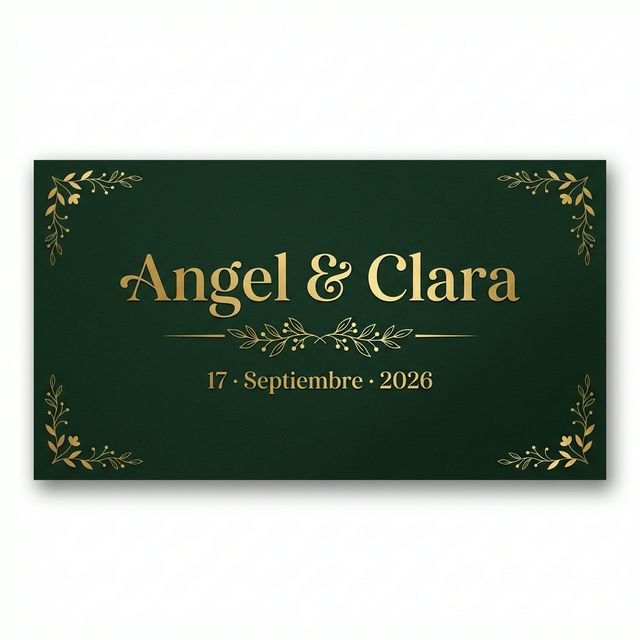
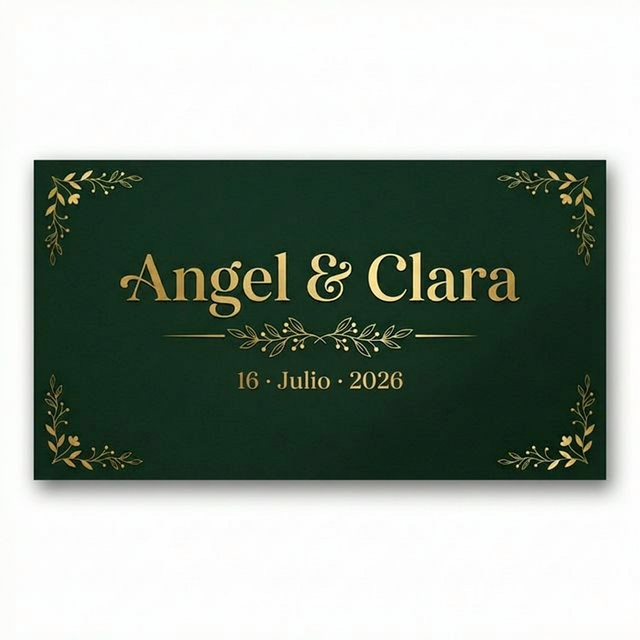
this is the last v i promise again XD

diff --git a/style.css b/style.css
@@ -14,14 +14,14 @@
   --font-serif: "Playfair Display", serif;
   --font-sans: "Lato", sans-serif;
 
-  /* Paleta de Color */
+  /* Paleta de Color Global Tintada de Oliva */
   --color-white: #ffffff;
-  --color-gold: #c5a059;
-  --color-gold-hover: #b8935a;
-  --color-dark: #333333;
-  --color-text-main: #333333;
-  --color-text-muted: #57534e;
-  --color-text-light: #78716c;
+  --color-gold: #a87f3b; /* Oro Oscurecido para mayor legibilidad sobre fondos claros */
+  --color-gold-hover: #8b682d;
+  --color-dark: #41533b; /* Deep Olive Green en lugar de Charcoal (#333) */
+  --color-text-main: #2d3a29; /* Casi negro con tinte verde oliva */
+  --color-text-muted: #535e4d; /* Gris con tinte oliva */
+  --color-text-light: #778170; /* Gris claro estilizado */
   --color-border: #e7e5e4;
   --color-bg-overlay: rgba(0, 0, 0, 0.45);
 
@@ -78,8 +78,8 @@ body {
   font-family: var(--font-sans);
   color: var(--color-text-main);
   background:
-    url("images/floral_bg.webp") repeat,
-    #faf8f2; /* Textura floral elegante y color crema combinados */
+    url("images/body_bg_olive_subtle.png") repeat,
+    #fffbfa; /* Textura botánica sutil crema/oliva/rosa */
   background-attachment: fixed;
   line-height: 1.6;
 }
@@ -115,25 +115,17 @@ body {
   box-shadow: var(--shadow-lg);
 }
 
-/* Modificador: Tarjeta destacada (Info adicional) */
-.card--highlight {
-  background: linear-gradient(135deg, #fdfcf8 0%, #faf6ec 100%);
-  border-top-color: var(--color-gold);
-  display: flex;
-  flex-direction: column;
-  gap: var(--space-md);
-}
+
 
 /* --- BOTONES (btn) --- */
 .btn {
-  display: inline-block;
   padding: 1.2em 2.5em;
   min-height: 44px;
   text-transform: uppercase;
   letter-spacing: 0.15em;
   cursor: pointer;
   transition: all var(--transition-base);
-  border-radius: 0; /* Estilo cuadrado/flat sofisticado */
+  border-radius: 1rem;
   font-family: var(--font-sans);
   font-size: 0.85rem;
   font-weight: 700;
@@ -143,53 +135,42 @@ body {
   gap: 0.5rem;
 }
 
-/* Modificador: Ghost (fondo transparente sobre imagen) */
-.btn--ghost {
-  background: transparent;
-  color: var(--color-white);
-  border: 1px solid rgba(255, 255, 255, 0.6);
-  backdrop-filter: blur(4px);
-  margin-top: var(--space-xl);
-}
 
-.btn--ghost:hover {
-  background: var(--color-white);
-  color: var(--color-gold);
-  transform: translateY(-2px);
-  box-shadow: var(--shadow-lg);
-}
 
-/* Modificador: Dark (fondo oscuro) */
+/* Modificador: Dark (fondo sólido verde oliva) */
 .btn--dark {
-  background: transparent;
-  border: 1px solid var(--color-gold);
-  color: var(--color-gold);
+  background: var(--color-dark);
+  border: 1px solid var(--color-dark);
+  color: var(--color-white);
   margin-top: var(--space-md);
+  box-shadow: 0 4px 10px rgba(65, 83, 59, 0.2);
 }
 
 .btn--dark:hover {
   background: var(--color-gold);
+  border-color: var(--color-gold);
   color: var(--color-white);
+  box-shadow: 0 6px 15px rgba(168, 127, 59, 0.3);
+  transform: translateY(-2px);
 }
 
-/* Modificador: Submit (botón de formulario) */
+/* Modificador: Submit (botón de formulario sólido oro) */
 .btn--submit {
   width: 100%;
-  background-color: var(--color-dark);
+  background-color: var(--color-gold);
   color: var(--color-white);
   border: none;
   padding: 1em;
-  border-radius: var(--radius-sm);
   font-size: 1rem;
-  font-weight: 700;
-  text-transform: uppercase;
   letter-spacing: 0.1em;
-  cursor: pointer;
-  transition: background var(--transition-base);
+  transition: all var(--transition-base);
+  box-shadow: 0 4px 10px rgba(168, 127, 59, 0.2);
 }
 
 .btn--submit:hover {
-  background-color: var(--color-gold);
+  background-color: var(--color-dark);
+  box-shadow: 0 6px 15px rgba(65, 83, 59, 0.3);
+  transform: translateY(-2px);
 }
 
 /* ==========================================================================
@@ -303,9 +284,13 @@ body {
 .navbar__link--cta {
   background-color: var(--color-gold);
   color: var(--color-white) !important;
-  border-radius: 20px;
+  border-radius: 1rem;
   padding: 0.5em 1.2em !important;
   transition: all var(--transition-base);
+  display: inline-flex;
+  align-items: center;
+  justify-content: center;
+  box-shadow: 0 4px 10px rgba(168, 127, 59, 0.2);
 }
 
 .navbar__link--cta::after {
@@ -313,9 +298,10 @@ body {
 }
 
 .navbar__link--cta:hover {
-  background-color: var(--color-gold-hover);
+  background-color: var(--color-dark);
+  color: var(--color-white) !important;
   transform: translateY(-2px);
-  box-shadow: var(--shadow-sm);
+  box-shadow: 0 6px 15px rgba(65, 83, 59, 0.3);
 }
 
 /* ==========================================================================
@@ -336,7 +322,7 @@ body {
 .hero__background {
   position: absolute;
   inset: 0;
-  background: url("images/hero_wedding.webp") center / cover;
+  background: url("images/hero_wedding_olive.png") center / cover;
   mask-image: linear-gradient(to bottom, black 70%, transparent 100%);
   -webkit-mask-image: linear-gradient(to bottom, black 85%, transparent 100%);
   filter: brightness(0.6);
@@ -388,31 +374,15 @@ body {
   margin: 0;
 }
 
-/* Elemento: Hora y lugar en la misma línea */
-.hero__sub-details {
-  display: flex;
-  align-items: center;
-  justify-content: center;
-  gap: var(--space-md);
-  font-size: 1.1rem;
+/* Elemento: Instruccion bajo la fecha */
+.hero__instruction {
+  font-size: 0.85rem;
+  color: rgba(255, 255, 255, 0.75);
+  letter-spacing: 0.12em;
   text-transform: uppercase;
-  letter-spacing: 0.15em;
-  margin-top: 0.5em;
-  font-weight: 300;
-}
-
-/* Elemento: Dirección */
-.hero__address {
-  letter-spacing: 0.1em;
-  font-size: 0.9rem;
-  color: rgba(255, 255, 255, 0.8);
   font-style: italic;
-  margin-top: 0.5em;
-}
-
-.hero__venue-link {
-  color: inherit;
-  text-decoration: underline;
+  margin-top: 1em;
+  font-weight: 300;
 }
 
 /* Elemento: Flecha de scroll */
@@ -800,7 +770,7 @@ body {
   margin: 0 auto;
   text-align: center;
   /* Sobre transparente que deja ver las rosas del body */
-  background: rgba(255, 255, 255, 0.55);
+  background: rgba(255, 255, 255, 0.65);
   backdrop-filter: blur(8px);
   -webkit-backdrop-filter: blur(8px);
   border: 1px solid rgba(197, 160, 89, 0.3);
@@ -901,8 +871,6 @@ body {
   border: 1px solid rgba(255, 255, 255, 0.6);
   border-radius: var(--radius-lg);
   box-shadow: 0 8px 32px 0 rgba(0, 0, 0, 0.15);
-  /* Resetea border-top del .card para el modal */
-  border-top: 4px solid var(--color-gold);
 }
 
 .modal.active .modal__content {
@@ -1245,20 +1213,6 @@ body {
     letter-spacing: 0.3em;
   }
 
-  .hero__sub-details {
-    flex-direction: column;
-    gap: 0.5em;
-    font-size: 0.9rem;
-  }
-
-  .hero__separator {
-    display: none;
-  }
-
-  .hero__address {
-    font-size: 0.8rem;
-    padding: 0 0.625em;
-  }
 
   /* --- Countdown --- */
   .countdown {
@@ -1288,6 +1242,25 @@ body {
   .modal__content {
     padding: var(--space-lg);
     width: 95%;
+  }
+
+  /* --- Info Cards: destacar textos importantes en móvil --- */
+  .timeline__description,
+  .timeline__info-group p {
+    font-size: 0.85rem;
+    padding-left: 0.85rem;
+    border-left: 3px solid var(--color-gold);
+    color: var(--color-text-main);
+    margin-top: 0.4rem;
+    line-height: 1.55;
+  }
+
+  /* Fecha más prominente en móvil */
+  .hero__date {
+    font-size: clamp(2rem, 10vw, 3rem);
+    color: var(--color-gold);
+    text-shadow: 0 2px 12px rgba(0, 0, 0, 0.45);
+    letter-spacing: 0.06em;
   }
 }
 
@@ -1337,13 +1310,6 @@ body {
     font-size: clamp(1rem, 5vw, 1.6rem);
   }
 
-  .hero__sub-details {
-    font-size: 0.8rem;
-  }
-
-  .hero__address {
-    font-size: 0.7rem;
-  }
 
   /* --- Countdown --- */
   .countdown {
@@ -1593,10 +1559,5 @@ body {
     padding: 1.5rem 4rem 0 1.5rem; /* Separación de la línea central */
   }
 
-  /* Card highlight en escritorio: dos columnas */
-  .card--highlight {
-    flex-direction: row;
-    justify-content: space-evenly;
-  }
-}
 
+}

diff --git a/index.html b/index.html
@@ -63,12 +63,7 @@
 
             <div class="hero__details">
                 <p class="hero__date">16 de Julio de 2026</p>
-                <div class="hero__sub-details">
-                    <span class="hero__time">5:00 PM</span>
-                    <span class="hero__separator" aria-hidden="true">•</span>
-                    <span class="hero__location">Passaic, New Jersey</span>
-                </div>
-                <p class="hero__address"><a href="https://www.gardenvistaballroom.com/" target="_blank" class="hero__venue-link">Garden Vista Ballroom</a></p>
+                <p class="hero__instruction">Desplázate para conocer los detalles del evento.</p>
             </div>
 
             <!-- Cuenta Regresiva -->
@@ -199,8 +194,8 @@
                             </svg>
                             <h3 class="timeline__event-name">La Ceremonia</h3>
                         </div>
-                        <p class="timeline__place">Informacion por confirmar</p>
-                        <p class="timeline__description">La ceremonia dará inicio puntualmente a las 2:00 PM. Rogamos considerar el tráfico y llegar con antelación, ya que el protocolo de entrada será estricto.</p>
+                        <p class="timeline__place">Lugar por confirmar</p>
+                        <p class="timeline__description">Inicio puntual; agradecemos llegar con antelación.</p>
                     </div>
                 </div>
 
@@ -216,7 +211,7 @@
                             <h3 class="timeline__event-name">La Recepción</h3>
                         </div>
                         <p class="timeline__place">Garden Vista Ballroom</p>
-                        <p class="timeline__description">La recepción comenzará puntualmente a las 4:30 PM. Se espera que todos los invitados lleguen con antelación para que podamos iniciar la ceremonia en el momento programado.</p>
+                        <p class="timeline__description">Recepción a las 5:00 PM; los esperamos para celebrar juntos.</p>
                     </div>
                 </div>
 
@@ -242,7 +237,7 @@
                     <div class="timeline__card">
                         <div class="timeline__info-group">
                             <h4 class="timeline__info-title">Regalos</h4>
-                            <p>Lluvia de sobres (su presencia es nuestro mejor regalo, pero si desean tener un detalle, contaremos con una urna para sobres).</p>
+                            <p>Lluvia de sobres.</p>
                         </div>
                     </div>
                 </div>
@@ -254,7 +249,7 @@
                     <div class="timeline__card">
                         <div class="timeline__info-group">
                             <h4 class="timeline__info-title">Cupos</h4>
-                            <p>Información importante: Cada invitación cuenta con un número limitado de cupos asignados, agradecemos respetar dicha cantidad para una mejor organización.</p>
+                            <p>Agradecemos respetar los cupos asignados en su invitación.</p>
                         </div>
                     </div>
                 </div>

diff --git a/script.js b/script.js
@@ -381,7 +381,7 @@ function mostrarExito() {
       calendarButtonsHTML = `
             <div style="display: flex; flex-direction: column; gap: 1rem; margin-top: 2rem;">
                 <a href="boda.ics" class="btn btn--dark" style="background-color: #000; border-color: #000; color: white;">
-                    🗓 Añadir a Apple Calendar
+                    Añadir a Apple Calendar
                 </a>
             </div>
       `;
@@ -389,7 +389,7 @@ function mostrarExito() {
       calendarButtonsHTML = `
             <div style="display: flex; flex-direction: column; gap: 1rem; margin-top: 2rem;">
                 <a href="https://calendar.google.com/calendar/render?action=TEMPLATE&text=Boda+de+Angel+y+Clara&dates=20260716T210000Z/20260717T050000Z&details=%C2%A1Te+esperamos+para+celebrar+nuestra+boda!&location=Garden+Vista+Ballroom,+29+Macarthur+Ave,+Passaic,+NJ+07055" target="_blank" rel="noopener" class="btn btn--dark" style="background-color: #4285F4; border-color: #4285F4; color: white;">
-                    🗓 Añadir a Google Calendar
+                    Añadir a Google Calendar
                 </a>
             </div>
       `;
@@ -406,14 +406,14 @@ function mostrarExito() {
             </p>
             <p style="color: #57534e; line-height: 1.6;">
                 Nos alegra mucho contar contigo en este día tan especial. 
-                ¡Nos vemos el 16 de julio! 🥂
+                ¡Nos vemos el 16 de julio!
             </p>
             
             ${calendarButtonsHTML}
 
             <button
-                class="btn btn--ghost"
-                style="margin-top: 1.5rem; color: #6B7280; border: none; text-decoration: underline;"
+                class="btn"
+                style="margin-top: 1.5rem; color: #6B7280; text-decoration: underline; background: transparent; border: none;"
                 onclick="cerrarYReiniciar()"
             >
                 Cerrar Formulario
